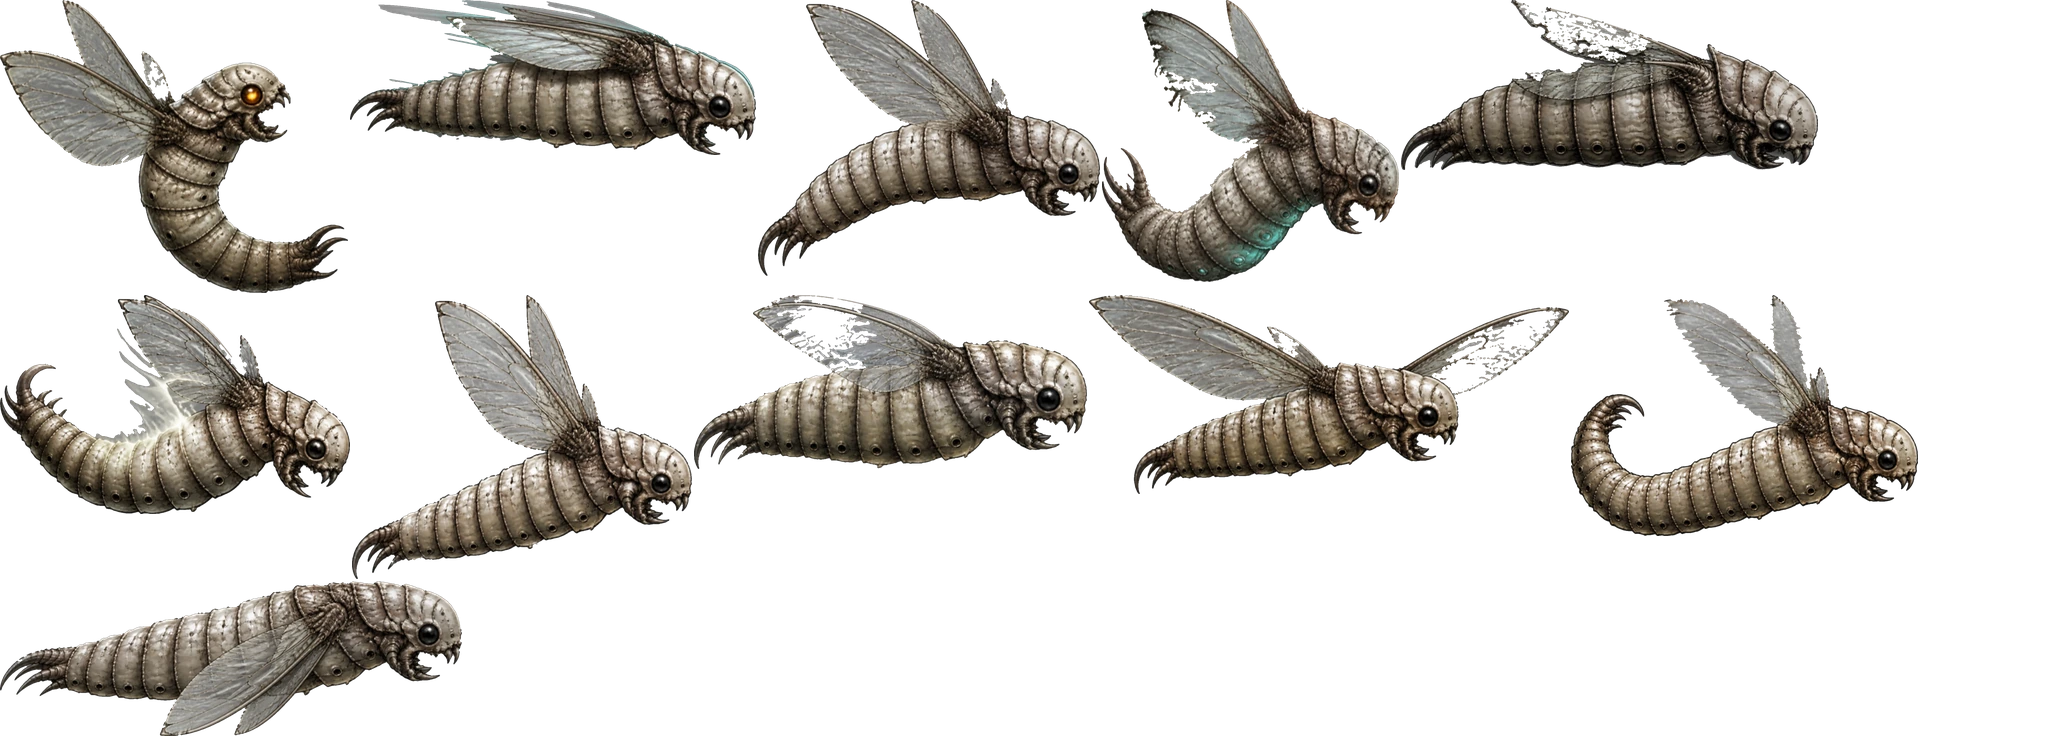
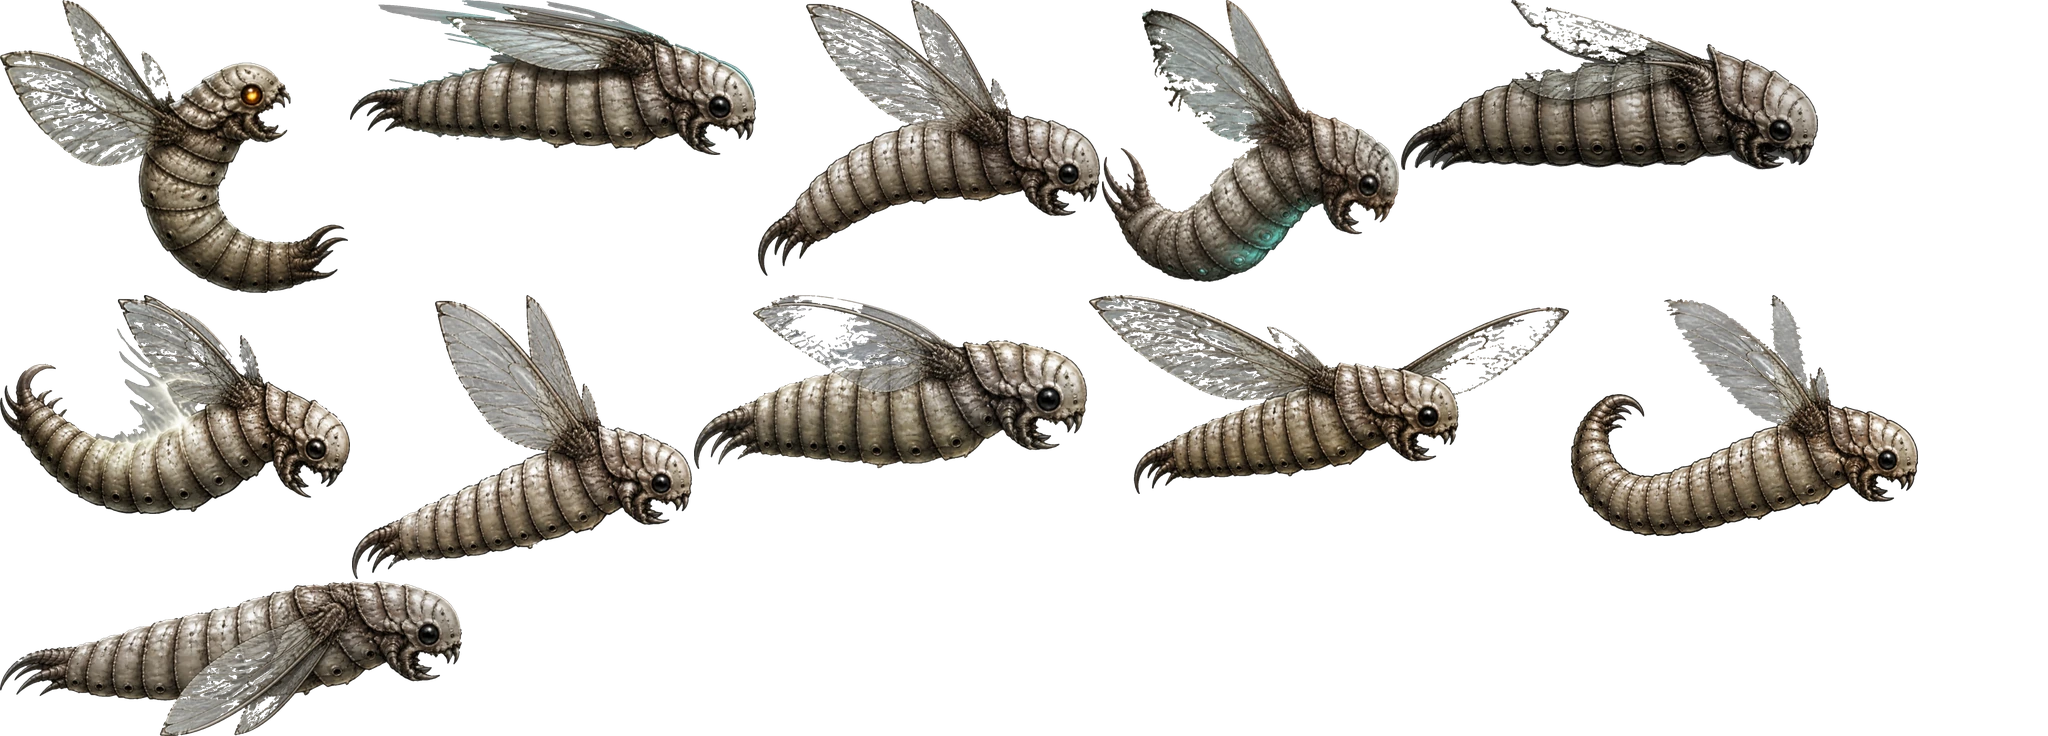
New species Gloomhound, Thornback and Cinderling with painted sheets; livelier creature motion (squash, lean, bob, wind-up crouch)

diff --git a/duskwell/js/creature_hq_meta.js b/duskwell/js/creature_hq_meta.js
@@ -1,3 +1,3 @@
 'use strict';
 // made by tools/sprites/cut_hq.py: detailed frames of the creatures in art/creatures/hq/<kind>.webp
-const CREATURE_HQ = {"crawler":{"idle":[[0,183,340,146,170.0,146,"crawler"],[342,183,320,147,160.0,147,"crawler"]],"walk":[[664,183,365,144,182.5,144,"crawler"],[1031,183,316,153,158.0,153,"crawler"],[1349,183,334,150,167.0,150,"crawler"],[1031,183,316,153,158.0,153,"crawler"]],"atk":[[0,0,292,158,146.0,158,"crawler"],[294,0,387,160,193.5,160,"crawler"],[294,0,387,160,193.5,160,"crawler"],[683,0,331,146,165.5,146,"crawler"]],"hurt":[[1668,0,316,181,158.0,181,"crawler"]],"death":[[1016,0,313,162,156.5,162,"crawler"],[1016,0,313,162,156.5,162,"crawler"],[1331,0,335,154,167.5,154,"crawler"],[1331,0,335,154,167.5,154,"crawler"]]},"flyer":{"idle":[[352,295,340,284,170.0,284,"flyer"],[352,295,340,284,170.0,284,"flyer"],[352,295,340,284,170.0,284,"flyer"],[694,295,393,174,196.5,174,"flyer"],[694,295,393,174,196.5,174,"flyer"],[694,295,393,174,196.5,174,"flyer"]],"walk":[[1089,295,480,199,240.0,199,"flyer"],[1571,295,347,241,173.5,241,"flyer"],[0,581,462,155,231.0,155,"flyer"],[1571,295,347,241,173.5,241,"flyer"],[1089,295,480,199,240.0,199,"flyer"],[1571,295,347,241,173.5,241,"flyer"]],"atk":[[0,0,348,293,174.0,293,"flyer"],[350,0,406,155,203.0,155,"flyer"],[350,0,406,155,203.0,155,"flyer"],[758,0,342,276,171.0,276,"flyer"]],"hurt":[[0,295,350,219,175.0,219,"flyer"]],"death":[[1102,0,297,282,148.5,282,"flyer"],[1102,0,297,282,148.5,282,"flyer"],[1401,0,417,170,208.5,170,"flyer"],[1401,0,417,170,208.5,170,"flyer"]]},"hopper":{"idle":[[332,236,340,215,170.0,215,"hopper"],[674,236,317,208,158.5,208,"hopper"]],"walk":[[993,236,369,222,184.5,222,"hopper"],[1364,236,355,222,177.5,222,"hopper"],[0,460,355,213,177.5,213,"hopper"],[1364,236,355,222,177.5,222,"hopper"]],"atk":[[0,0,328,208,164.0,208,"hopper"],[0,0,328,208,164.0,208,"hopper"],[330,0,443,234,221.5,234,"hopper"],[330,0,443,234,221.5,234,"hopper"],[775,0,345,204,172.5,204,"hopper"]],"hurt":[[0,236,330,220,165.0,220,"hopper"]],"death":[[1122,0,397,197,198.5,197,"hopper"],[1122,0,397,197,198.5,197,"hopper"],[1521,0,444,170,222.0,170,"hopper"],[1521,0,444,170,222.0,170,"hopper"]]},"spitter":{"idle":[[1558,0,269,340,134.5,340,"spitter"],[0,342,256,396,128.0,396,"spitter"]],"walk":[[258,342,375,373,187.5,373,"spitter"],[635,342,267,348,133.5,348,"spitter"],[904,342,273,342,136.5,342,"spitter"],[635,342,267,348,133.5,348,"spitter"]],"atk":[[0,0,272,340,136.0,340,"spitter"],[0,0,272,340,136.0,340,"spitter"],[274,0,217,310,108.5,310,"spitter"],[274,0,217,310,108.5,310,"spitter"],[493,0,199,298,99.5,298,"spitter"]],"hurt":[[1349,0,207,301,103.5,301,"spitter"]],"death":[[694,0,197,189,98.5,189,"spitter"],[694,0,197,189,98.5,189,"spitter"],[893,0,454,224,227.0,224,"spitter"]]}};
+const CREATURE_HQ = {"cinderling":{"idle":[[835,292,340,263,170.0,263,"cinderling"],[1177,292,328,266,164.0,266,"cinderling"]],"walk":[[1507,292,411,330,205.5,330,"cinderling"],[0,624,366,270,183.0,270,"cinderling"],[368,624,403,243,201.5,243,"cinderling"],[0,624,366,270,183.0,270,"cinderling"]],"atk":[[0,0,379,245,189.5,245,"cinderling"],[0,0,379,245,189.5,245,"cinderling"],[381,0,520,290,260.0,290,"cinderling"],[381,0,520,290,260.0,290,"cinderling"],[903,0,384,253,192.0,253,"cinderling"]],"hurt":[[484,292,349,297,174.5,297,"cinderling"]],"death":[[1289,0,405,230,202.5,230,"cinderling"],[1289,0,405,230,202.5,230,"cinderling"],[0,292,482,208,241.0,208,"cinderling"],[0,292,482,208,241.0,208,"cinderling"]]},"crawler":{"idle":[[0,183,340,146,170.0,146,"crawler"],[342,183,320,147,160.0,147,"crawler"]],"walk":[[664,183,365,144,182.5,144,"crawler"],[1031,183,316,153,158.0,153,"crawler"],[1349,183,334,150,167.0,150,"crawler"],[1031,183,316,153,158.0,153,"crawler"]],"atk":[[0,0,292,158,146.0,158,"crawler"],[294,0,387,160,193.5,160,"crawler"],[294,0,387,160,193.5,160,"crawler"],[683,0,331,146,165.5,146,"crawler"]],"hurt":[[1668,0,316,181,158.0,181,"crawler"]],"death":[[1016,0,313,162,156.5,162,"crawler"],[1016,0,313,162,156.5,162,"crawler"],[1331,0,335,154,167.5,154,"crawler"],[1331,0,335,154,167.5,154,"crawler"]]},"flyer":{"idle":[[352,295,340,284,170.0,284,"flyer"],[352,295,340,284,170.0,284,"flyer"],[352,295,340,284,170.0,284,"flyer"],[694,295,393,174,196.5,174,"flyer"],[694,295,393,174,196.5,174,"flyer"],[694,295,393,174,196.5,174,"flyer"]],"walk":[[1089,295,480,199,240.0,199,"flyer"],[1571,295,347,241,173.5,241,"flyer"],[0,581,462,155,231.0,155,"flyer"],[1571,295,347,241,173.5,241,"flyer"],[1089,295,480,199,240.0,199,"flyer"],[1571,295,347,241,173.5,241,"flyer"]],"atk":[[0,0,348,293,174.0,293,"flyer"],[350,0,406,155,203.0,155,"flyer"],[350,0,406,155,203.0,155,"flyer"],[758,0,342,276,171.0,276,"flyer"]],"hurt":[[0,295,350,219,175.0,219,"flyer"]],"death":[[1102,0,297,282,148.5,282,"flyer"],[1102,0,297,282,148.5,282,"flyer"],[1401,0,417,170,208.5,170,"flyer"],[1401,0,417,170,208.5,170,"flyer"]]},"gloomhound":{"idle":[[299,219,340,261,170.0,261,"gloomhound"],[641,219,321,282,160.5,282,"gloomhound"]],"walk":[[964,219,369,234,184.5,234,"gloomhound"],[1335,219,354,236,177.0,236,"gloomhound"],[1691,219,339,228,169.5,228,"gloomhound"],[1335,219,354,236,177.0,236,"gloomhound"]],"atk":[[0,0,338,183,169.0,183,"gloomhound"],[340,0,453,154,226.5,154,"gloomhound"],[340,0,453,154,226.5,154,"gloomhound"],[795,0,310,217,155.0,217,"gloomhound"]],"hurt":[[0,219,297,283,148.5,283,"gloomhound"]],"death":[[1107,0,324,201,162.0,201,"gloomhound"],[1107,0,324,201,162.0,201,"gloomhound"],[1433,0,446,121,223.0,121,"gloomhound"],[1433,0,446,121,223.0,121,"gloomhound"]]},"hopper":{"idle":[[332,236,340,215,170.0,215,"hopper"],[674,236,317,208,158.5,208,"hopper"]],"walk":[[993,236,369,222,184.5,222,"hopper"],[1364,236,355,222,177.5,222,"hopper"],[0,460,355,213,177.5,213,"hopper"],[1364,236,355,222,177.5,222,"hopper"]],"atk":[[0,0,328,208,164.0,208,"hopper"],[0,0,328,208,164.0,208,"hopper"],[330,0,443,234,221.5,234,"hopper"],[330,0,443,234,221.5,234,"hopper"],[775,0,345,204,172.5,204,"hopper"]],"hurt":[[0,236,330,220,165.0,220,"hopper"]],"death":[[1122,0,397,197,198.5,197,"hopper"],[1122,0,397,197,198.5,197,"hopper"],[1521,0,444,170,222.0,170,"hopper"],[1521,0,444,170,222.0,170,"hopper"]]},"spitter":{"idle":[[1558,0,269,340,134.5,340,"spitter"],[0,342,256,396,128.0,396,"spitter"]],"walk":[[258,342,375,373,187.5,373,"spitter"],[635,342,267,348,133.5,348,"spitter"],[904,342,273,342,136.5,342,"spitter"],[635,342,267,348,133.5,348,"spitter"]],"atk":[[0,0,272,340,136.0,340,"spitter"],[0,0,272,340,136.0,340,"spitter"],[274,0,217,310,108.5,310,"spitter"],[274,0,217,310,108.5,310,"spitter"],[493,0,199,298,99.5,298,"spitter"]],"hurt":[[1349,0,207,301,103.5,301,"spitter"]],"death":[[694,0,197,189,98.5,189,"spitter"],[694,0,197,189,98.5,189,"spitter"],[893,0,454,224,227.0,224,"spitter"]]},"thornback":{"idle":[[865,294,340,284,170.0,284,"thornback"],[1207,294,334,287,167.0,287,"thornback"]],"walk":[[1543,294,424,285,212.0,285,"thornback"],[0,607,344,275,172.0,275,"thornback"],[346,607,372,289,186.0,289,"thornback"],[0,607,344,275,172.0,275,"thornback"]],"atk":[[0,0,308,277,154.0,277,"thornback"],[310,0,606,231,303.0,231,"thornback"],[310,0,606,231,303.0,231,"thornback"],[918,0,379,292,189.5,292,"thornback"]],"hurt":[[495,294,368,311,184.0,311,"thornback"]],"death":[[1299,0,374,255,187.0,255,"thornback"],[1299,0,374,255,187.0,255,"thornback"],[0,294,493,210,246.5,210,"thornback"],[0,294,493,210,246.5,210,"thornback"]]}};

diff --git a/duskwell/js/species.js b/duskwell/js/species.js
@@ -1,0 +1,68 @@
+'use strict';
+// New species (js/species_meta.js, made by tools/sprites/cut_species.py from their painted sheets): each one is an area's own creature that
+// moves and fights with the brain of an older one (a hound that leaps like the husk, a glass crab that patrols like the crawler ...),
+// with its own look, stats, blood colour, bestiary page and places in the rooms of its area.
+const Species = (() => {
+  const LIST = typeof SPECIES !== 'undefined' ? SPECIES : [];
+  const STATS = {                      // hp, geo, speed factor, blood
+    gloomhound: [14, 4, 1.15, '#9fb8ff'], thornback: [16, 4, 0.85, '#8fe8b8'], cinderling: [16, 5, 1, '#ff9a4a'],
+    frostwisp: [12, 4, 1, '#dff6ff'], glasscrab: [18, 5, 1, '#e6dcff'], bonejackal: [14, 4, 1.2, '#f2e8d0'],
+    gearmite: [16, 5, 1, '#ffb070'], stormkite: [14, 5, 1.1, '#d0e4ff'], silkstalker: [14, 5, 1, '#e0d0ff'],
+    sporeling: [14, 4, 1, '#ffc070'], tidecrab: [16, 5, 1, '#8fe8ff'], starwisp: [12, 4, 1, '#f4f4ff'],
+  };
+  const made = [];
+  for (const s of LIST) {
+    const Base = ENEMY_TYPES[s.parent]; if (!Base) continue;
+    const st = STATS[s.k] || [14, 4, 1, '#ffffff'];
+    const C = class extends Base {
+      constructor(d) {
+        super(Object.assign({}, d, s.move === 'spider' ? { ground: true } : null));
+        this.hp = st[0]; this.geo = st[1]; this.blood = st[3];
+        if (this.speed) this.speed *= st[2];
+      }
+    };
+    ENEMY_TYPES[s.k] = C;
+    // its frames: the brain of the creature it moves like, its own sheet
+    if (typeof AnimArt !== 'undefined' && AnimArt.CFG[s.parent]) AnimArt.add(s.k, Object.assign({}, AnimArt.CFG[s.parent]));
+    // its page in the bestiary
+    if (typeof BESTIARY !== 'undefined' && !BESTIARY.some(b => !b.boss && b.k === s.k)) {
+      BESTIARY.push({ k: s.k, area: s.area, ar: s.ar, en: s.en });
+      BESTIARY_INDEX['e:' + s.k] = BESTIARY.length - 1;
+    }
+    made.push(s.k);
+  }
+  // places in the rooms of their area: on a floor with room to walk (or in the air for flyers), away from doors, benches,
+  // stations, signs, people, pickups and the creatures already there; never in a boss arena
+  function place() {
+    if (typeof WORLD === 'undefined') return;
+    for (const s of LIST) {
+      if (!ENEMY_TYPES[s.k]) continue;
+      const rooms = WORLD.order.map(id => WORLD.rooms[id]).filter(r => r.area === s.area && !r.arena && r.enemies);
+      let n = 0;
+      for (let ri = 0; ri < rooms.length && n < 4; ri += Math.max(1, Math.floor(rooms.length / 4))) {
+        const r = rooms[ri], spot = findSpot(r, s.move === 'fly');
+        if (!spot) continue;
+        r.enemies.push({ type: s.k, x: spot.x, y: spot.y, species: true }); n++;
+      }
+    }
+  }
+  function findSpot(r, fly) {
+    const solid = (x, y) => { const v = r.get ? r.get(x, y) : r.t[y * r.w + x]; return v === T_SOLID; };
+    const free = (x, y) => x >= 0 && y >= 0 && x < r.w && y < r.h && (r.get ? r.get(x, y) : r.t[y * r.w + x]) === T_AIR;
+    const busy = [].concat(r.doors || [], r.benches || [], r.stations || [], r.signs || [], r.npcs || [], r.items || [], r.enemies || [], r.mech || []);
+    const near = (x, y) => busy.some(q => Math.abs((q.x || 0) - x) < 6 && Math.abs((q.y || 0) - y) < 5);
+    const cand = [];
+    for (let y = 2; y < r.h - 1; y++) for (let x = 3; x < r.w - 3; x++) {
+      if (!solid(x, y + 1) || !free(x, y) || !free(x, y - 1) || !free(x, y - 2)) continue;
+      // a run of floor at least 6 tiles wide to walk on
+      let run = 0; for (let i = -3; i <= 3; i++) if (solid(x + i, y + 1) && free(x + i, y)) run++;
+      if (run < 6 || near(x, y)) continue;
+      if (fly) { if (free(x, y - 3) && free(x, y - 4)) cand.push({ x, y: y - 3 }); }
+      else cand.push({ x, y });
+    }
+    if (!cand.length) return null;
+    return cand[Math.floor(cand.length * 0.62) % cand.length];
+  }
+  place();
+  return { list: made, place };
+})();

diff --git a/duskwell/js/art_anims.js b/duskwell/js/art_anims.js
@@ -84,13 +84,36 @@ const AnimArt = (() => {
     g.save(); g.translate(x, y); if (alpha != null) g.globalAlpha *= alpha;
     if (o && o.filter) g.filter = o.filter;
     if (o && o.rot) g.rotate(o.rot);
-    g.scale(face * sc, sc);
+    g.scale(face * sc * (o && o.sx || 1), sc * (o && o.sy || 1));
     const ox = o && o.pivot === 'center' ? -f[2] / 2 : -f[4], oy = o && o.pivot === 'center' ? -f[3] / 2 : o && o.top ? 0 : -f[5];
     g.imageSmoothingEnabled = true; g.imageSmoothingQuality = 'high';
     const im = typeof f[6] === 'string' ? hq[f[6]] : f[6] ? img2 : img;
     g.drawImage(im, f[0], f[1], f[2], f[3], ox, oy, f[2], f[3]);
     if (white) { g.globalAlpha *= 0.8; g.filter = 'brightness(0) invert(1)'; g.drawImage(im, f[0], f[1], f[2], f[3], ox, oy, f[2], f[3]); }
     g.restore();
+  }
+  // the body moves between the painted frames: it breathes when still, bobs and leans into its walk, squashes as it lands and
+  // stretches as it jumps, crouches through a wind-up, shakes when struck, a flyer bobs and banks, and a turn is a quick squeeze.
+  // The frame is scaled about its ground point, so the feet stay on the floor
+  function motion(e, d, dt, t, c) {
+    const M = d.m || (d.m = { sq: 0, ground: !!e.onGround, vy: 0, face: e.face || 1, turn: 0 });
+    let sx = 1, sy = 1, rot = 0, dx = 0, dy = 0;
+    const vx = e.vx || 0, moving = Math.abs(vx) > 8, ph = (e.x || 0) * 0.05 + (e.ph || 0);
+    if ((e.face || 1) !== M.face) { M.face = e.face || 1; M.turn = 1; }
+    M.turn = Math.max(0, M.turn - dt * 9); sx *= 1 - 0.3 * M.turn;
+    if (c.fly) {
+      dy += Math.sin(t * 3.1 + ph) * 2.2; rot = Math.max(-0.14, Math.min(0.14, vx / 1700));
+    } else if (!e.isDummy) {
+      if (e.onGround && !M.ground && M.vy > 160) M.sq = Math.min(1, M.vy / 650);              // it lands
+      M.ground = !!e.onGround; M.vy = e.vy || 0; M.sq = Math.max(0, M.sq - dt * 7);
+      sx *= 1 + 0.16 * M.sq; sy *= 1 - 0.16 * M.sq;
+      if (!e.onGround) { const k = Math.max(-0.5, Math.min(0.6, -(e.vy || 0) / 900)); sy *= 1 + 0.1 * k; sx *= 1 - 0.06 * k; }
+      else if (moving) { dy -= Math.abs(Math.sin(d.dist * 0.085)) * 2; rot = Math.max(-0.05, Math.min(0.05, vx / 2200)); }
+      else { const b = Math.sin(t * 2.4 + ph); sy *= 1 + 0.022 * b; sx *= 1 - 0.011 * b; }
+    }
+    if (e.currentState === 'anticipation') { const k = Math.min(1, (e.stateT || 0) / 0.3); sx *= 1 + 0.07 * k; sy *= 1 - 0.08 * k; }
+    if (d.hurtT > 0) { dx += Math.sin(t * 90) * 1.6; rot -= 0.07 * (e.face || 1); }
+    return { sx, sy, rot, dx, dy };
   }
   // where the frame goes: its ground point on the floor under the creature; a flyer's frame centred on its body; a hanging one from its top.
   // A creature's config may also give place() (position, rotation...), under()/over() (things drawn behind / in front: a chain, its orbs),
@@ -115,6 +138,7 @@ const AnimArt = (() => {
       else if (c.fly) y = e.cy + (ref[5] - ref[3] * 0.5) * sc;
       else y = e.y + e.h + 1;
     }
+    if (!c.top && !c.place && !c.rigid && !e.hanging) { const m = motion(e, d, dt, t, c); o.sx = m.sx; o.sy = m.sy; if (!o.rot) o.rot = m.rot; x += m.dx; y += m.dy; }
     if (!c.fly && !c.top && !e.isDummy && !e.hanging && !(c.shadow && !c.shadow(e))) Pixel.shadow(g, e.cx, e.y + e.h, Math.min(e.w * 1.1, ref[2] * sc * 0.4));
     if (kind === 'spider' && e.hanging) {                                                         // the thread it hangs from
       g.strokeStyle = 'rgba(220,225,240,0.55)'; g.lineWidth = 1.2; g.beginPath(); g.moveTo(e.cx, e.anchorY != null ? e.anchorY : e.y - 300); g.lineTo(e.cx, e.y + 4); g.stroke();

diff --git a/duskwell/js/species_meta.js b/duskwell/js/species_meta.js
@@ -1,0 +1,3 @@
+'use strict';
+// made by tools/sprites/cut_species.py: the new species that have their painted sheet (see js/species.js)
+const SPECIES = [{"k": "gloomhound", "parent": "husk", "area": "crossroads", "move": "walk", "en": ["Gloomhound", "A lean shadow hound with a ragged smoky mane and two pale lantern eyes. It stalks, then leaps at you from close range: strike it as it lands."], "ar": ["كلب العتمة", "كلب ظلّ نحيل بعُرف دخانيّ ممزّق وعينين كفانوسين شاحبين. يتربّص ثم يقفز عليك من قرب: اضربه حين يهبط."]}, {"k": "thornback", "parent": "crawler", "area": "mossgrove", "move": "walk", "en": ["Thornback", "A beetle armoured in thorny bark plates furred with glowing lichen. It plods to and fro and charges if it sees you; its back is hard, strike its side."], "ar": ["الشوكيّ", "خنفساء مدرّعة بصفائح لحاء شائكة يكسوها حزاز مضيء. تمشي ذهاباً وإياباً وتندفع إن رأتك؛ ظهرها قاسٍ فاضربها من الجانب."]}, {"k": "cinderling", "parent": "hopper", "area": "ember", "move": "hop", "en": ["Cinderling", "A squat magma toad with cracked basalt skin and glowing seams. It crouches, then leaps at you."], "ar": ["الجمرة", "ضفدع حمم قصير بجلد بازلتي متشقّق وفواصل متوهّجة. ينقبض ثم يقفز نحوك."]}];

diff --git a/duskwell/tests/bestiary.test.js b/duskwell/tests/bestiary.test.js
@@ -1,11 +1,12 @@
 // The bestiary: every creature and boss has an entry and drawn art, creatures are entered when first seen, the list is
 // saved, and the screen opens from the pause menu and browses.
 const { open, shot } = require('./lib');
-let fails = 0, BESTN = 35 + 6 + 4;
+let fails = 0, BESTN = 35 + 6 + 4;                    // and one more for every new species with its own sheet (js/species.js)
 const ok = (name, cond, extra) => { console.log((cond ? 'PASS ' : 'FAIL ') + name + (extra !== undefined ? '  ' + JSON.stringify(extra) : '')); if (!cond) fails++; };
 (async () => {
   const { browser, page, errors } = await open();
   const ev = (f, a) => page.evaluate(f, a);
+  BESTN += await ev(() => (typeof Species !== 'undefined' ? Species.list.length : 0));
   let r = await ev(() => {
     const keys = BESTIARY.map(b => (b.boss ? 'b:' : 'e:') + b.k), dup = keys.filter((k, i) => keys.indexOf(k) !== i);
     const noArt = BESTIARY.filter(b => { const c = document.createElement('canvas'); c.width = c.height = 400; return !Art.drawCreature(c.getContext('2d'), b.k, !!b.boss, 200, 300, 2, 1, {}); }).map(b => b.k);

diff --git a/duskwell/index.html b/duskwell/index.html
@@ -204,6 +204,8 @@ canvas{display:block;background:var(--stage);border-radius:4px;box-shadow:0 0 40
 <script src="js/wizard_meta.js"></script>
 <script src="js/art_elder.js"></script>
 <script src="js/bestiary.js"></script>
+<script src="js/species_meta.js"></script>
+<script src="js/species.js"></script>
 <script src="js/screens.js"></script>
 <script src="js/shops.js"></script>
 <script src="js/moves.js"></script>

diff --git a/duskwell/tools/sprites/cut_species.py b/duskwell/tools/sprites/cut_species.py
@@ -1,0 +1,49 @@
+#!/usr/bin/env python3
+"""New species: their painted sheets art/source/species/<kind>.png (twelve poses of one creature in a grid of 4 columns and 3 rows on
+flat grey) are split into one picture per pose, art/source/hq/<kind>_<pose>.webp, which cut_hq.py then packs like the other creatures'
+(with the rows of the creature each one moves like, tools/sprites/species.json 'parent'). Also writes js/species_meta.js (SPECIES)."""
+import os, sys, json, glob
+import numpy as np
+from PIL import Image
+HERE = os.path.dirname(os.path.abspath(__file__)); ROOT = os.path.join(HERE, '..', '..')
+POSES = ['idle_a', 'idle_b', 'walk_a', 'walk_b', 'walk_c', 'atk_a', 'atk_b', 'atk_c', 'hurt', 'death_a', 'death_b', 'extra']
+
+
+def cuts(profile, n):
+    """n pieces: cut at the emptiest line near each expected boundary"""
+    L = len(profile); sm = np.convolve(profile, np.ones(15) / 15, 'same'); out = [0]
+    for k in range(1, n):
+        c = k * L / n; lo, hi = int(c - 0.4 * L / n), int(c + 0.4 * L / n)
+        out.append(lo + int(np.argmin(sm[lo:hi])))
+    return out + [L]
+
+
+def split(kind, path):
+    im = Image.open(path).convert('RGB'); a = np.asarray(im, np.float32)
+    grey = np.median(np.concatenate([a[:6].reshape(-1, 3), a[-6:].reshape(-1, 3), a[:, :6].reshape(-1, 3), a[:, -6:].reshape(-1, 3)]), 0)
+    fg = np.sqrt(((a - grey) ** 2).sum(-1)) > 28
+    rows = cuts(fg.sum(1).astype(float), 3)
+    i = 0
+    for r in range(3):
+        band = fg[rows[r]:rows[r + 1]]; cols = cuts(band.sum(0).astype(float), 4)
+        for c in range(4):
+            name = POSES[i]; i += 1
+            piece = im.crop((cols[c], rows[r], cols[c + 1], rows[r + 1]))
+            pad = Image.new('RGB', (piece.width + 80, piece.height + 80), tuple(int(v) for v in grey)); pad.paste(piece, (40, 40))
+            if name != 'extra': pad.save(os.path.join(ROOT, 'art', 'source', 'hq', '%s_%s.webp' % (kind, name)), quality=92)
+
+
+def main():
+    S = json.load(open(os.path.join(HERE, 'species.json')))
+    for s in S:
+        p = os.path.join(ROOT, 'art', 'source', 'species', s['k'] + '.png')
+        if os.path.exists(p): split(s['k'], p); print('split', s['k'])
+    have = [s for s in S if os.path.exists(os.path.join(ROOT, 'art', 'source', 'species', s['k'] + '.png'))]
+    keep = [{k: s[k] for k in ('k', 'parent', 'area', 'move', 'en', 'ar')} for s in have]
+    open(os.path.join(ROOT, 'js', 'species_meta.js'), 'w').write(
+        "'use strict';\n// made by tools/sprites/cut_species.py: the new species that have their painted sheet (see js/species.js)\n"
+        "const SPECIES = " + json.dumps(keep, ensure_ascii=False) + ";\n")
+
+
+if __name__ == '__main__':
+    main()

diff --git a/duskwell/tools/sprites/cut_hq.py b/duskwell/tools/sprites/cut_hq.py
@@ -17,6 +17,15 @@ def cut(path):
     l, n = ndi.label(ndi.binary_dilation(fg, iterations=4)); sz = ndi.sum(fg, l, range(1, n + 1))
     keep = [i + 1 for i, v in enumerate(sz) if v > max(1500, sz.max() * 0.02)]
     m = np.isin(l, keep) & fg
+    # the grey seen through a gap (between the legs, under an arch of the body) was filled in with the outline: open it again
+    f = cv2.GaussianBlur(im.astype(np.float32), (0, 0), 1.0)
+    bg = np.median(np.concatenate([f[:6].reshape(-1, 3), f[-6:].reshape(-1, 3), f[:, :6].reshape(-1, 3), f[:, -6:].reshape(-1, 3)]), 0)
+    sat = cv2.cvtColor(im, cv2.COLOR_BGR2HSV)[..., 1]
+    hole = m & (np.linalg.norm(f - bg, axis=2) < 13) & (sat < 30)
+    hl, hn = ndi.label(hole)
+    if hn:
+        hs = ndi.sum(hole, hl, range(1, hn + 1))
+        m &= ~np.isin(hl, [i + 1 for i, v in enumerate(hs) if v >= 150])
     body = (l == int(np.argmax(sz)) + 1) & fg
     a = cv2.GaussianBlur(m.astype(np.float32), (0, 0), 0.9); a = np.clip((a - 0.2) / 0.6, 0, 1)
     yy, xx = np.where(m); y0, y1, x0, x1 = yy.min(), yy.max() + 1, xx.min(), xx.max() + 1
@@ -28,6 +37,9 @@ def rows_of(kind):
     js = open(os.path.join(ROOT, 'js', 'creature_anims_meta.js')).read()
     A = json.loads(re.search(r'const CREATURE_ANIMS = (\{.*?\});', js, re.S).group(1))
     P = json.loads(re.search(r'const CREATURE_PARTS = (\{.*?\});', js, re.S).group(1))
+    if kind not in A:                                        # a new species moves with the rows of the creature it is built on
+        sp = {x['k']: x['parent'] for x in json.load(open(os.path.join(HERE, 'species.json')))}
+        kind = sp[kind]
     return {s: len(v) for s, v in A[kind].items()}, P.get(kind)
 
 def spread(names, n):                                         # n frames walking through the given poses in order
